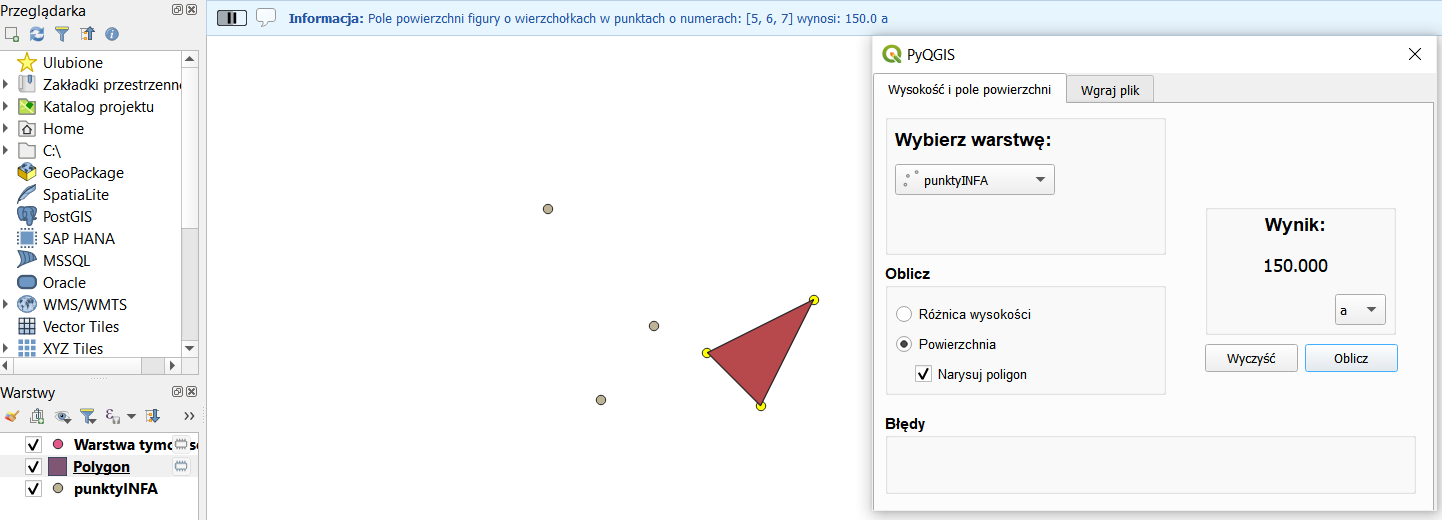
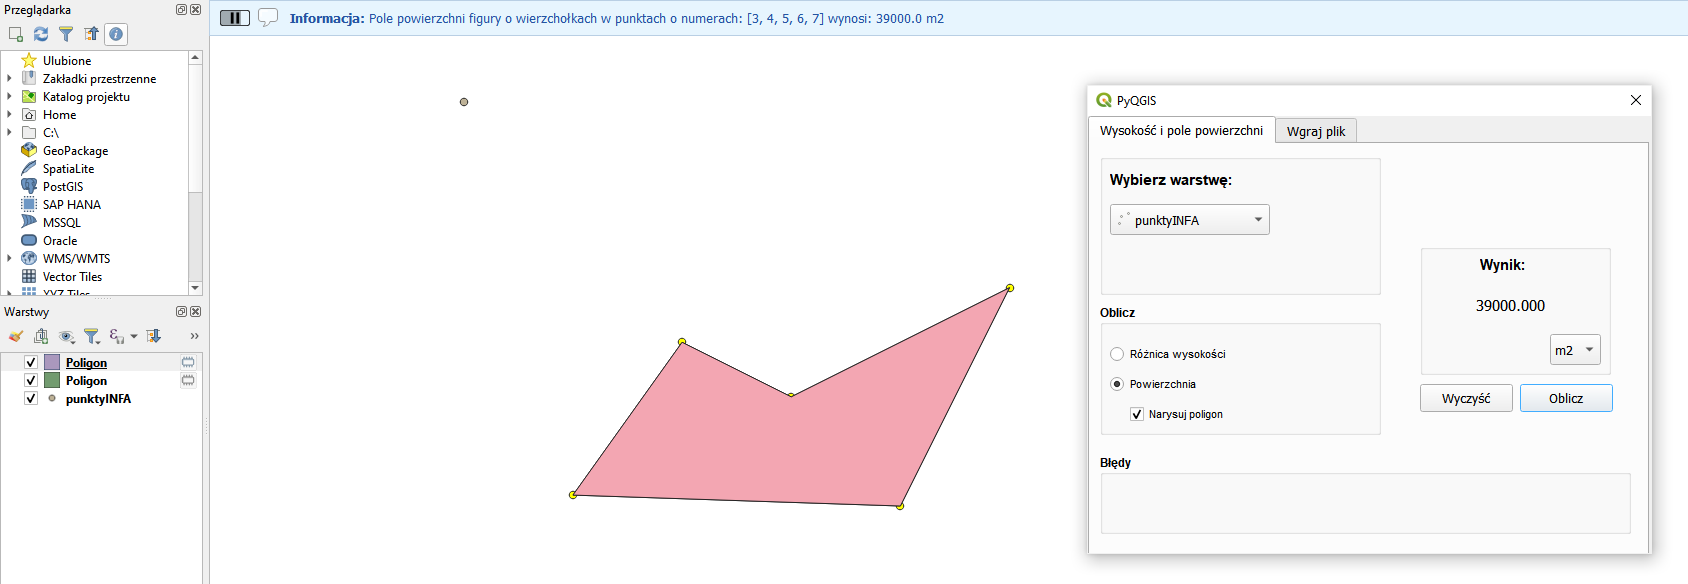
zakonczenie prac README

diff --git a/README.md b/README.md
@@ -69,7 +69,7 @@ Efekt wyznaczania różnicy wysokości:
 
 **Wynik** 
 
-Wynik obliczonego pola powierzchni w wybranej jednostce pojawi się jednocześnie w polu "Wynik", a także na pasku informacyjnym interfejsu QGIS. Dodatkowo, w przypadku wyboru opcji "Narysuj poligon", do projektu dodana zostanie warstwa tymczasowa "Poligon". W przypadku, gdy użytkownik wybierze mniej punktów niż trzy, w polu "Błędy" pojawi się informacja o nieprawidłowej liczbie wybranych punktów. 
+Wynik obliczonego pola powierzchni w wybranej jednostce pojawi się jednocześnie w polu "Wynik", a także na pasku informacyjnym interfejsu QGIS. Dodatkowo, w przypadku wyboru opcji "Narysuj poligon", do projektu dodana zostanie warstwa tymczasowa "Poligon" z figurą o wierzchołkach w zaznaczonych punktach i w układzie współrzędnych zgodnym z tym, zdefiniowanym dla tych punktów. W przypadku, gdy użytkownik wybierze mniej punktów niż trzy, w polu "Błędy" pojawi się informacja o nieprawidłowej liczbie wybranych punktów. 
 
 Efekt wyznaczania pola powierzchni wraz z rysowaniem poligonu:
 
